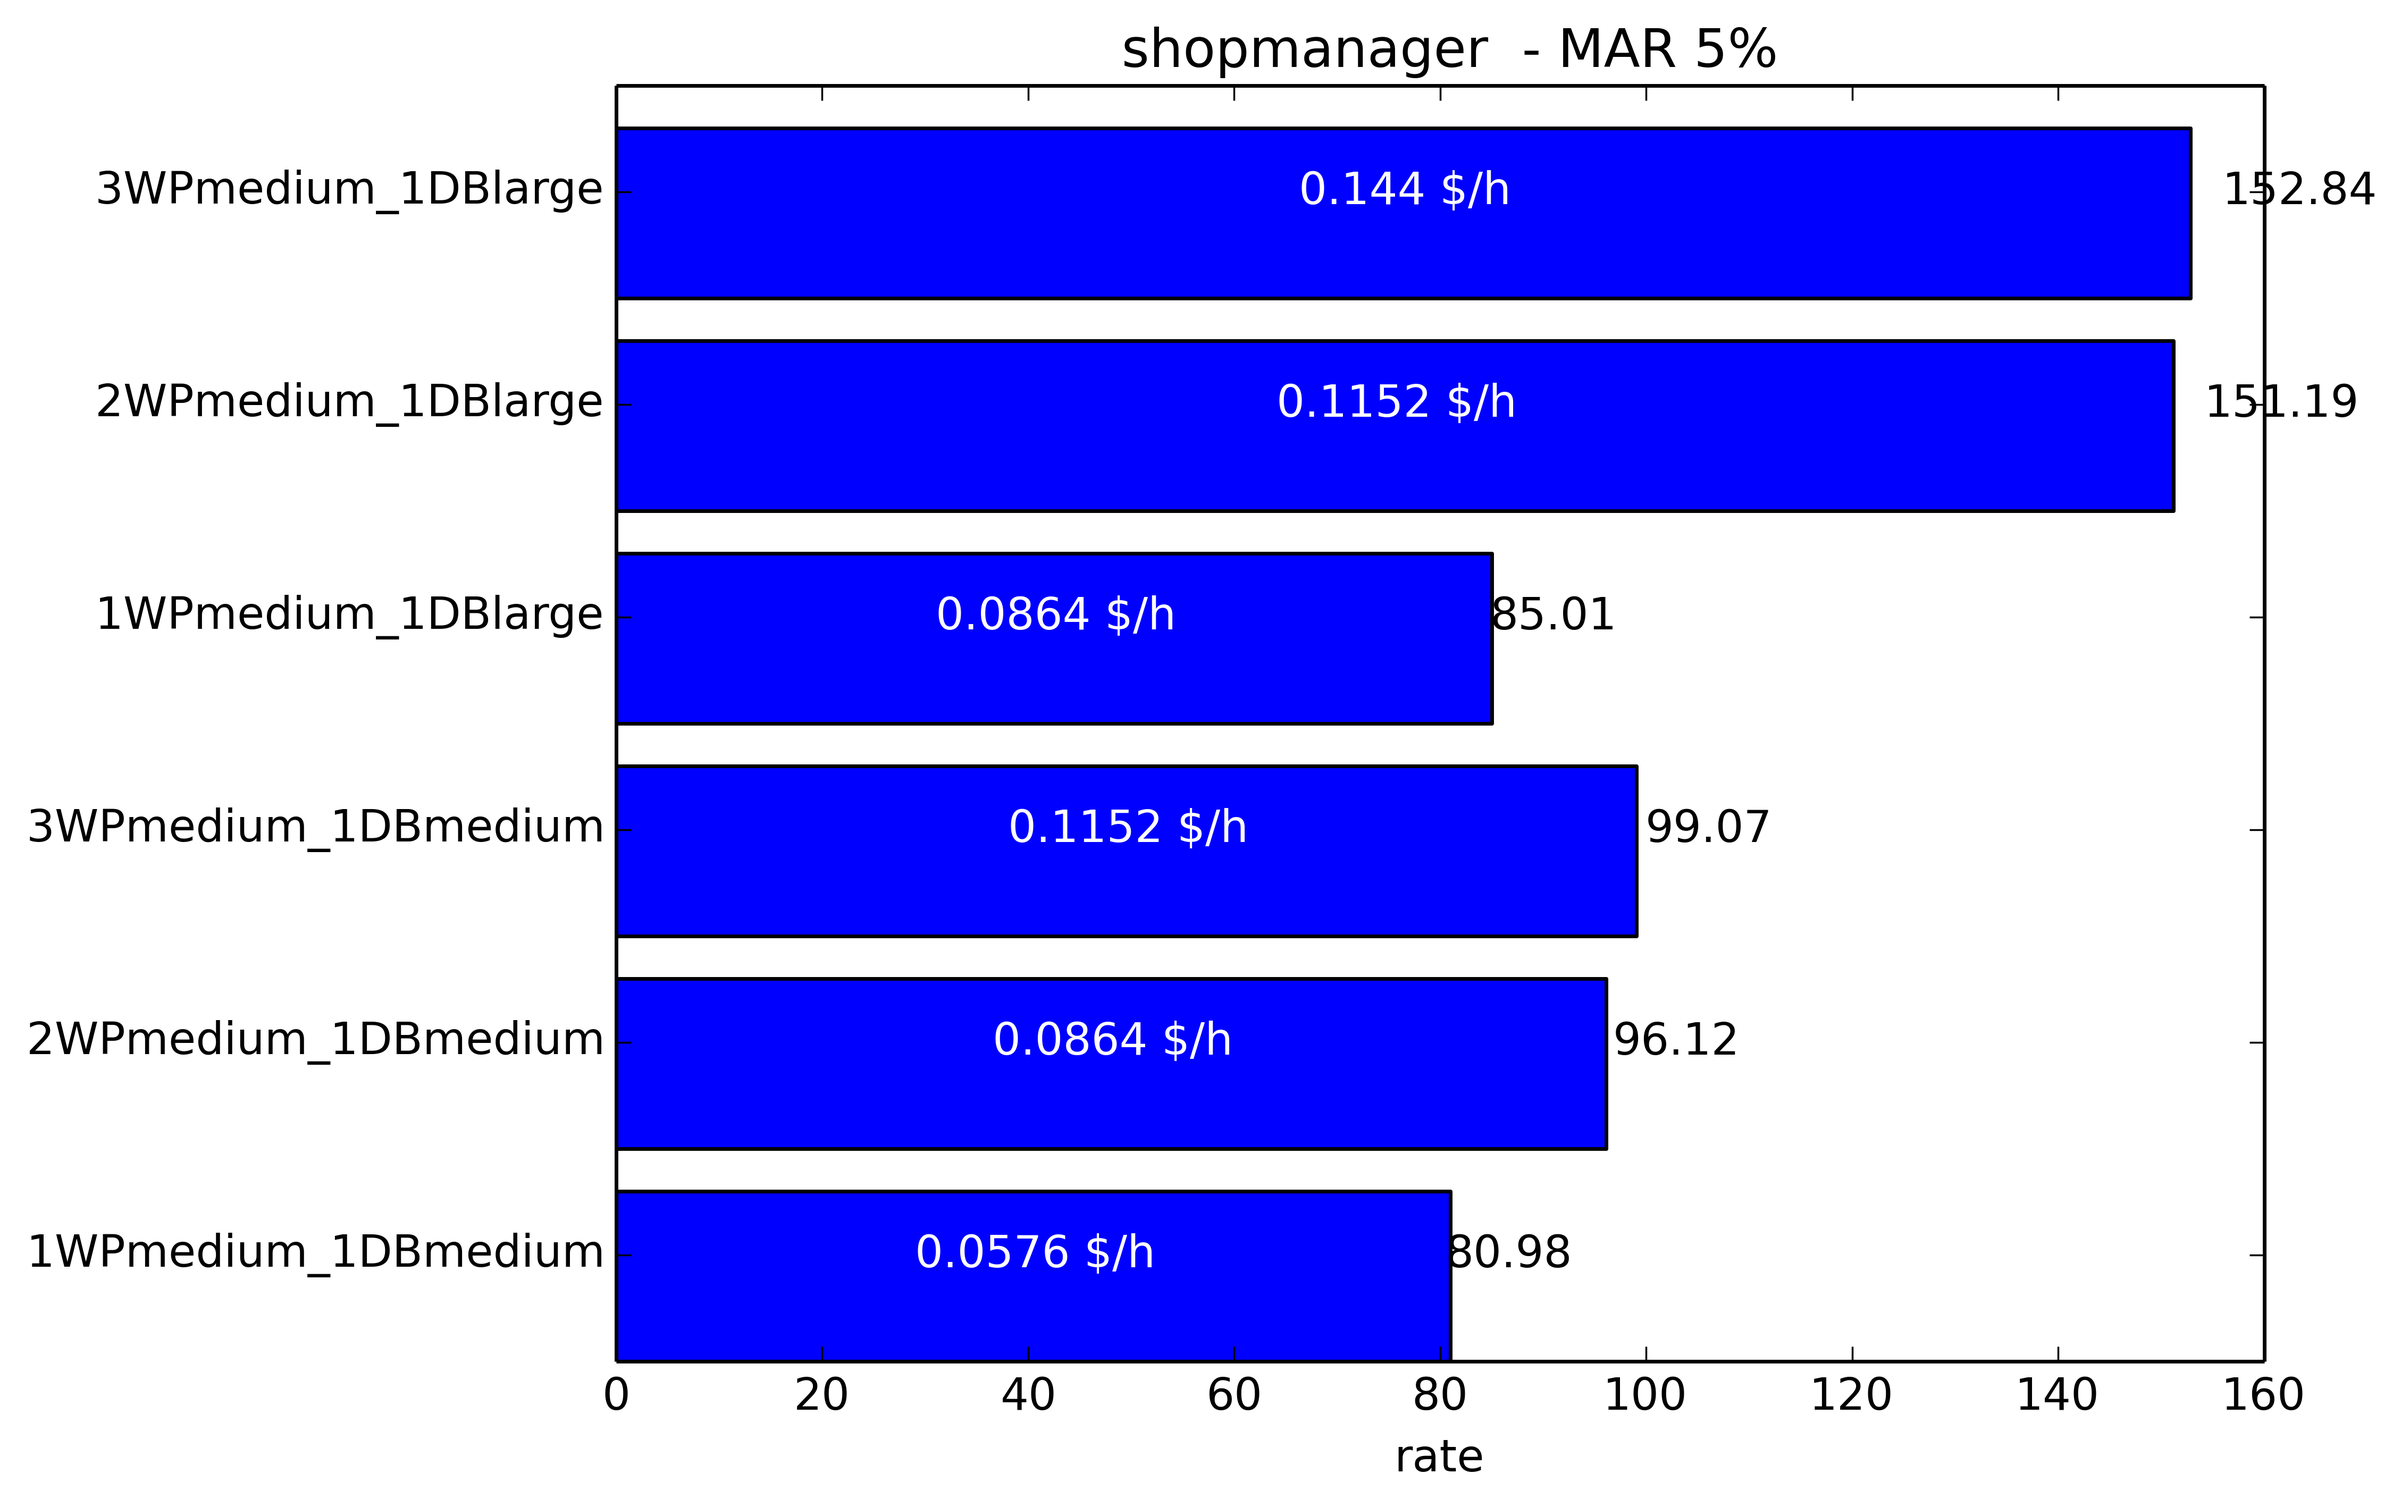
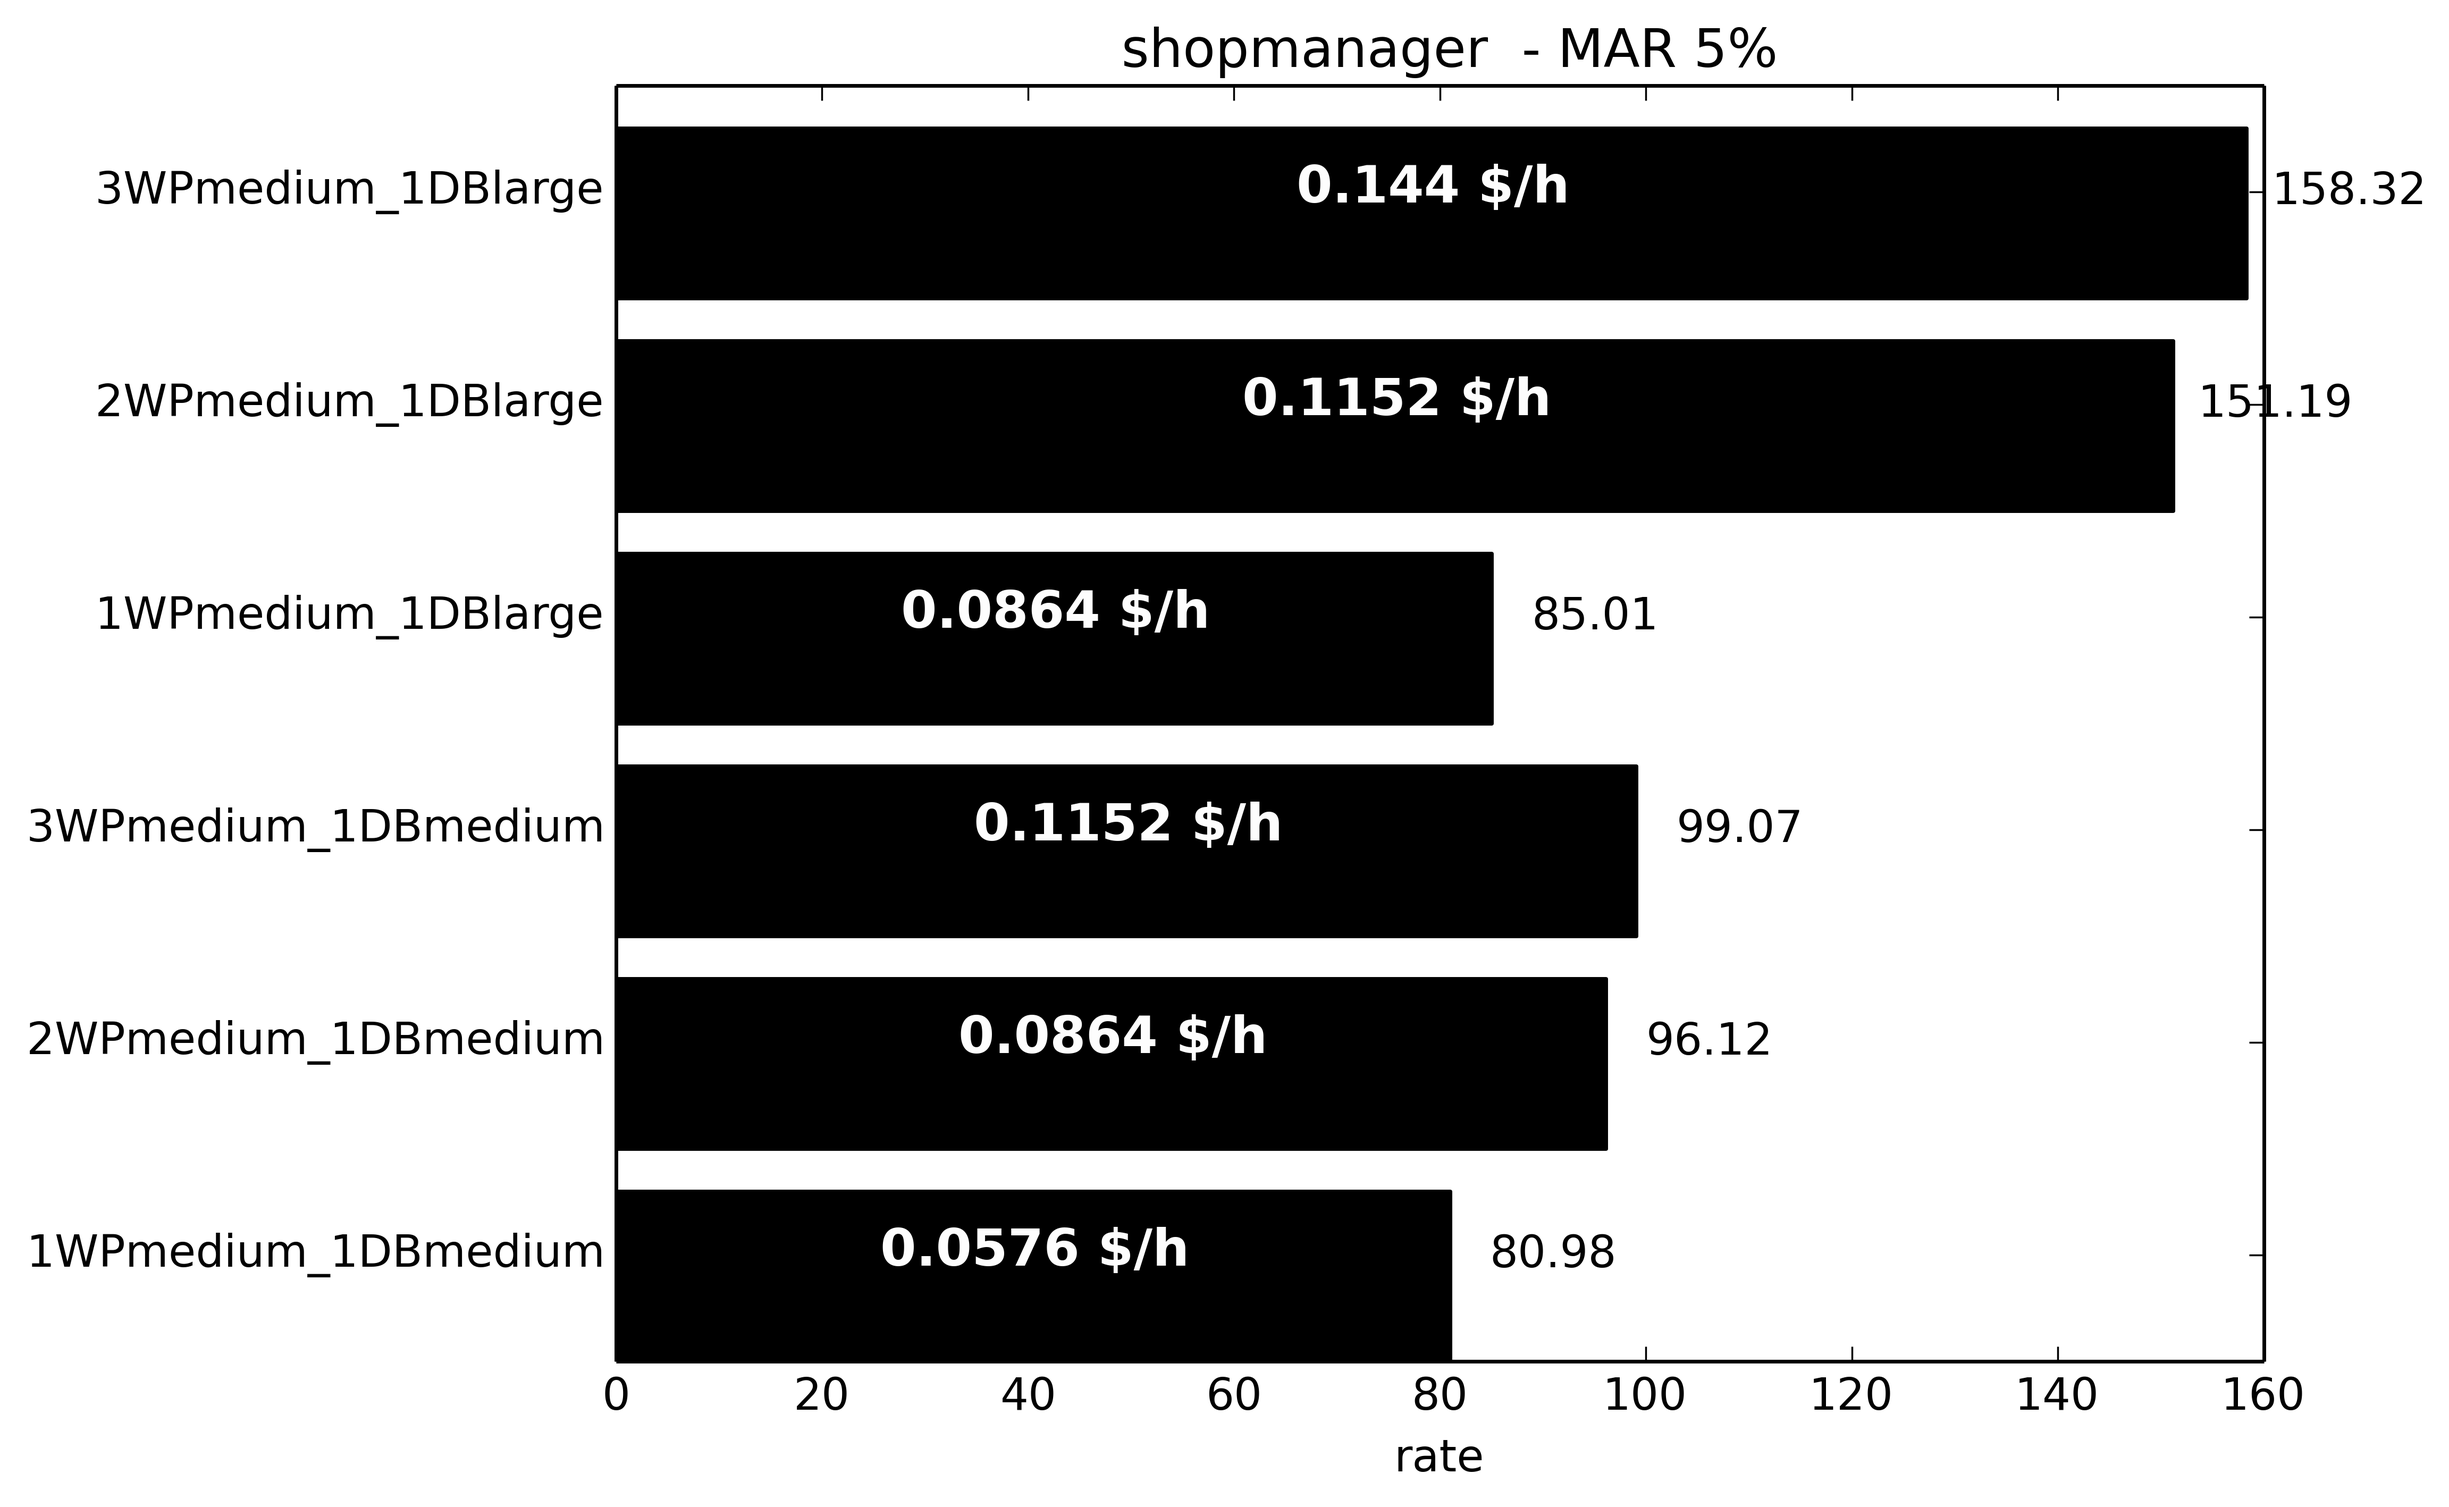
update picture

diff --git a/scripts/scalingPolicy.py b/scripts/scalingPolicy.py
@@ -1,0 +1,71 @@
+import numpy as np 
+import pandas as pd
+import costs as costs
+
+class scalingPolicy():
+	
+	def __init__(self, df, ConfTable, CostTable, Profiles, costs):
+		self.df = df
+		self.Conf=ConfTable
+		self.Costs=CostTable
+		self.Profiles=Profiles
+		self.costs = costs
+		self.confs=self.analyze()
+
+	def MAR(self, val,r,ko):
+		mar=0
+		#print "evaluating MAR "+str(val)+"%"
+		for j in range(len(ko)):
+			if (ko[j]<val) and (r[j]>mar):
+				mar=r[j]
+			#print "ko:"+str(ko[j])+" r:"+str(r[j])+"temp mar:"+str(mar)
+		#print "MAR "+str(val)+"%="+str(mar)
+		return mar
+
+	def analyze(self):
+		length=len(self.Conf)
+		confs=[]
+		for i in range(length):
+			df2 = self.df.loc[(self.df['Conf'] == self.Conf[i])]
+			r = df2['rate']
+			ko = df2['%KO']
+			r=r.values.tolist()
+			ko=ko.values.tolist()
+			#res=[self.Conf[i],[self.MAR(3,r,ko),self.MAR(5,r,ko),self.MAR(7,r,ko)],self.costs.costFromString(self.Conf[i])]
+			mar5=self.MAR(5,r,ko)
+			res=[self.Conf[i],[mar5*0.95,mar5,mar5*1.05],self.costs.costFromString(self.Conf[i])]			
+			confs.append(res)
+			#print res
+		return confs
+
+	def evaluate(self):
+		policy=[]
+		startconf=self.minForRate(0)
+		policy.append(self.confs[startconf])
+		nextrate=self.confs[startconf][1][1]*1.1
+		maxmar=self.maxMAR()
+		maxconf=self.minForRate(maxmar)
+		while (nextrate<maxmar):
+			nextconf=self.minForRate(nextrate)
+			nextrate=self.confs[nextconf][1][1]*1.1
+			policy.append(self.confs[nextconf])
+		print policy
+		return policy
+
+	def minForRate(self,rate):
+		acost=1000
+		id=-1
+		for i in range(len(self.confs)):
+			if ((self.confs[i][2]<acost) and rate<self.confs[i][1][1]):
+				id=i
+				acost=self.confs[i][2]
+		print self.confs[id][0]
+		return id
+
+	def maxMAR(self):
+		mar=0
+		for i in range(len(self.confs)):
+			if (mar<self.confs[i][1][1]):
+				mar=self.confs[i][1][1]
+		print mar
+		return mar

diff --git a/scripts/Plot.py b/scripts/Plot.py
@@ -9,6 +9,7 @@ from pathlib import Path
 base_dir = str(Path().resolve())
 colors=['bo','ro','go','mo','co','yo','ko']
 colorsl=['b','r','g','m','c','y','k']
+colorb=['g','g','g','g','g','y','k']
 class Plot():
 
 	def __init__(self, df, ConfTable, CostTable, Profiles, costs):
@@ -212,20 +213,21 @@ class Plot():
 
 		#w=3
 		x_axis = np.arange(0, length)
-		bar=plt.barh(x_axis,mar5)
+		bar=plt.barh(x_axis,mar5,color='k')
 		plt.yticks(x_axis+0.5,Conf,rotation='horizontal');
 		plt.xlabel('rate')
 		for idx, rect in enumerate(bar):
 			width=rect.get_width()
 			cost=round(self.costs.costFromString(Conf[idx]),4)
 			scost=str(cost)+' $/h'
-		 	plt.text(1.07*width,rect.get_y() + rect.get_height()/2., round(mar5[idx],2), ha='center', va='bottom', rotation=0)
-		 	plt.text( 0.5*width, rect.get_y() + rect.get_height()/2., scost, ha='center', va='bottom', rotation=0, color='white')
+		 	plt.text(width+10,rect.get_y() + rect.get_height()/2., round(mar5[idx],2), ha='center', va='bottom', rotation=0)
+		 	plt.text( 0.5*width, rect.get_y() + rect.get_height()/2., scost, ha='center', va='bottom', rotation=0, color='white',fontweight='bold',fontsize=14)
 
 		plt.title(profile+' - MAR 5%')
 		plt.savefig(base_dir + '/output/plot_'+profile.strip()+'MAR.png', bbox_inches='tight', dpi=500)
 		plt.clf()
 
+#How MAR changes varying the requested thresh
 	def plot_MARvar(self, Conf, profile, df ):
 		length = len(Conf)
 		for i in range(length): 
